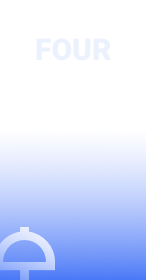
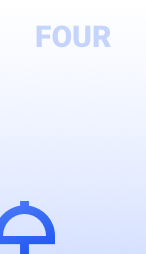
更新创建区块链步骤背景图

diff --git a/docs/.vitepress/theme/components/GuidePc.vue b/docs/.vitepress/theme/components/GuidePc.vue
@@ -346,7 +346,7 @@ const guides = [
 }
 
 .build_chain_step{
-  height: 290px;
+  height: 267px;
   overflow: hidden;
 }
 .build_chain_step .step-img{
